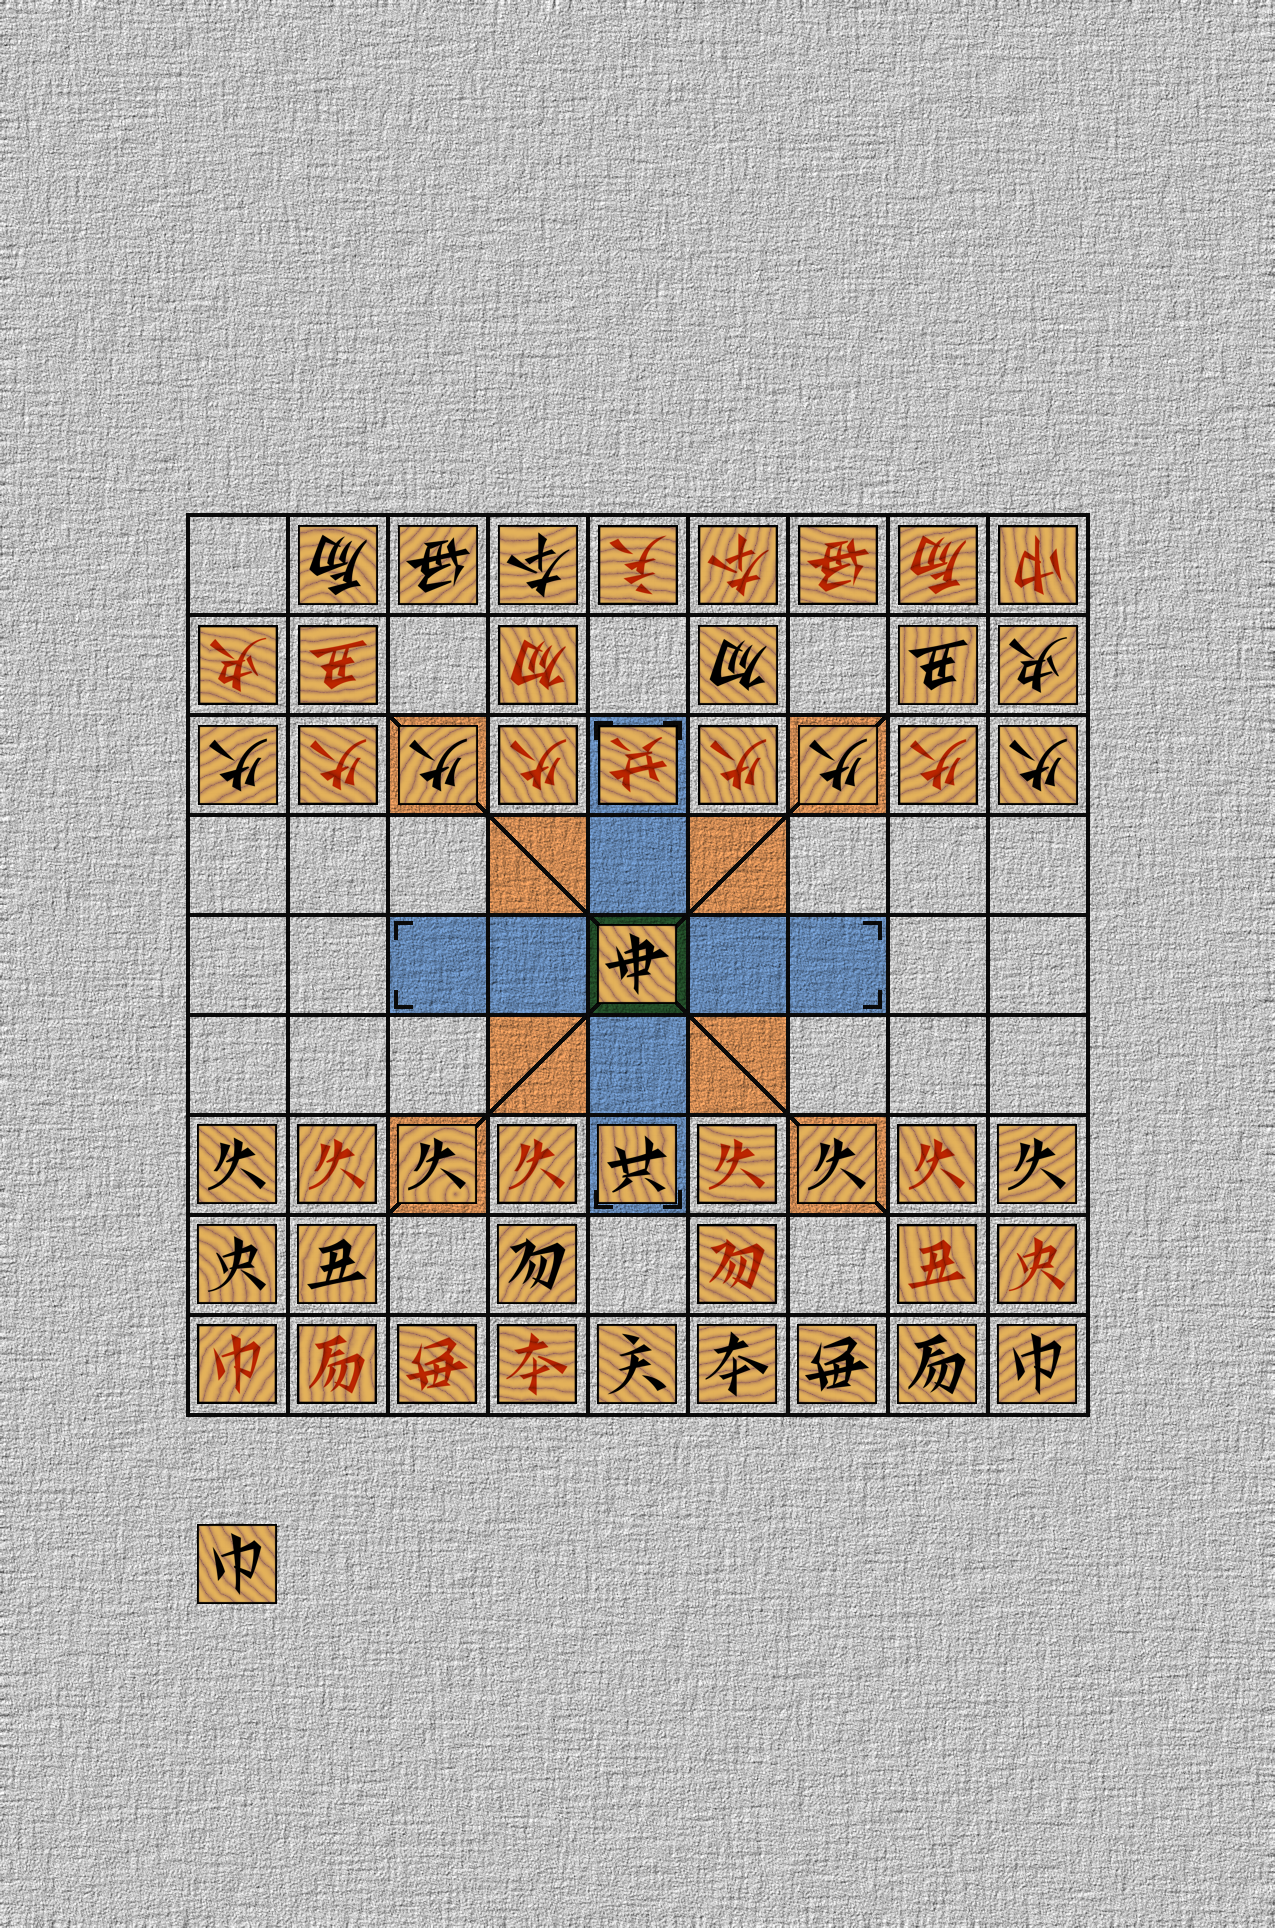
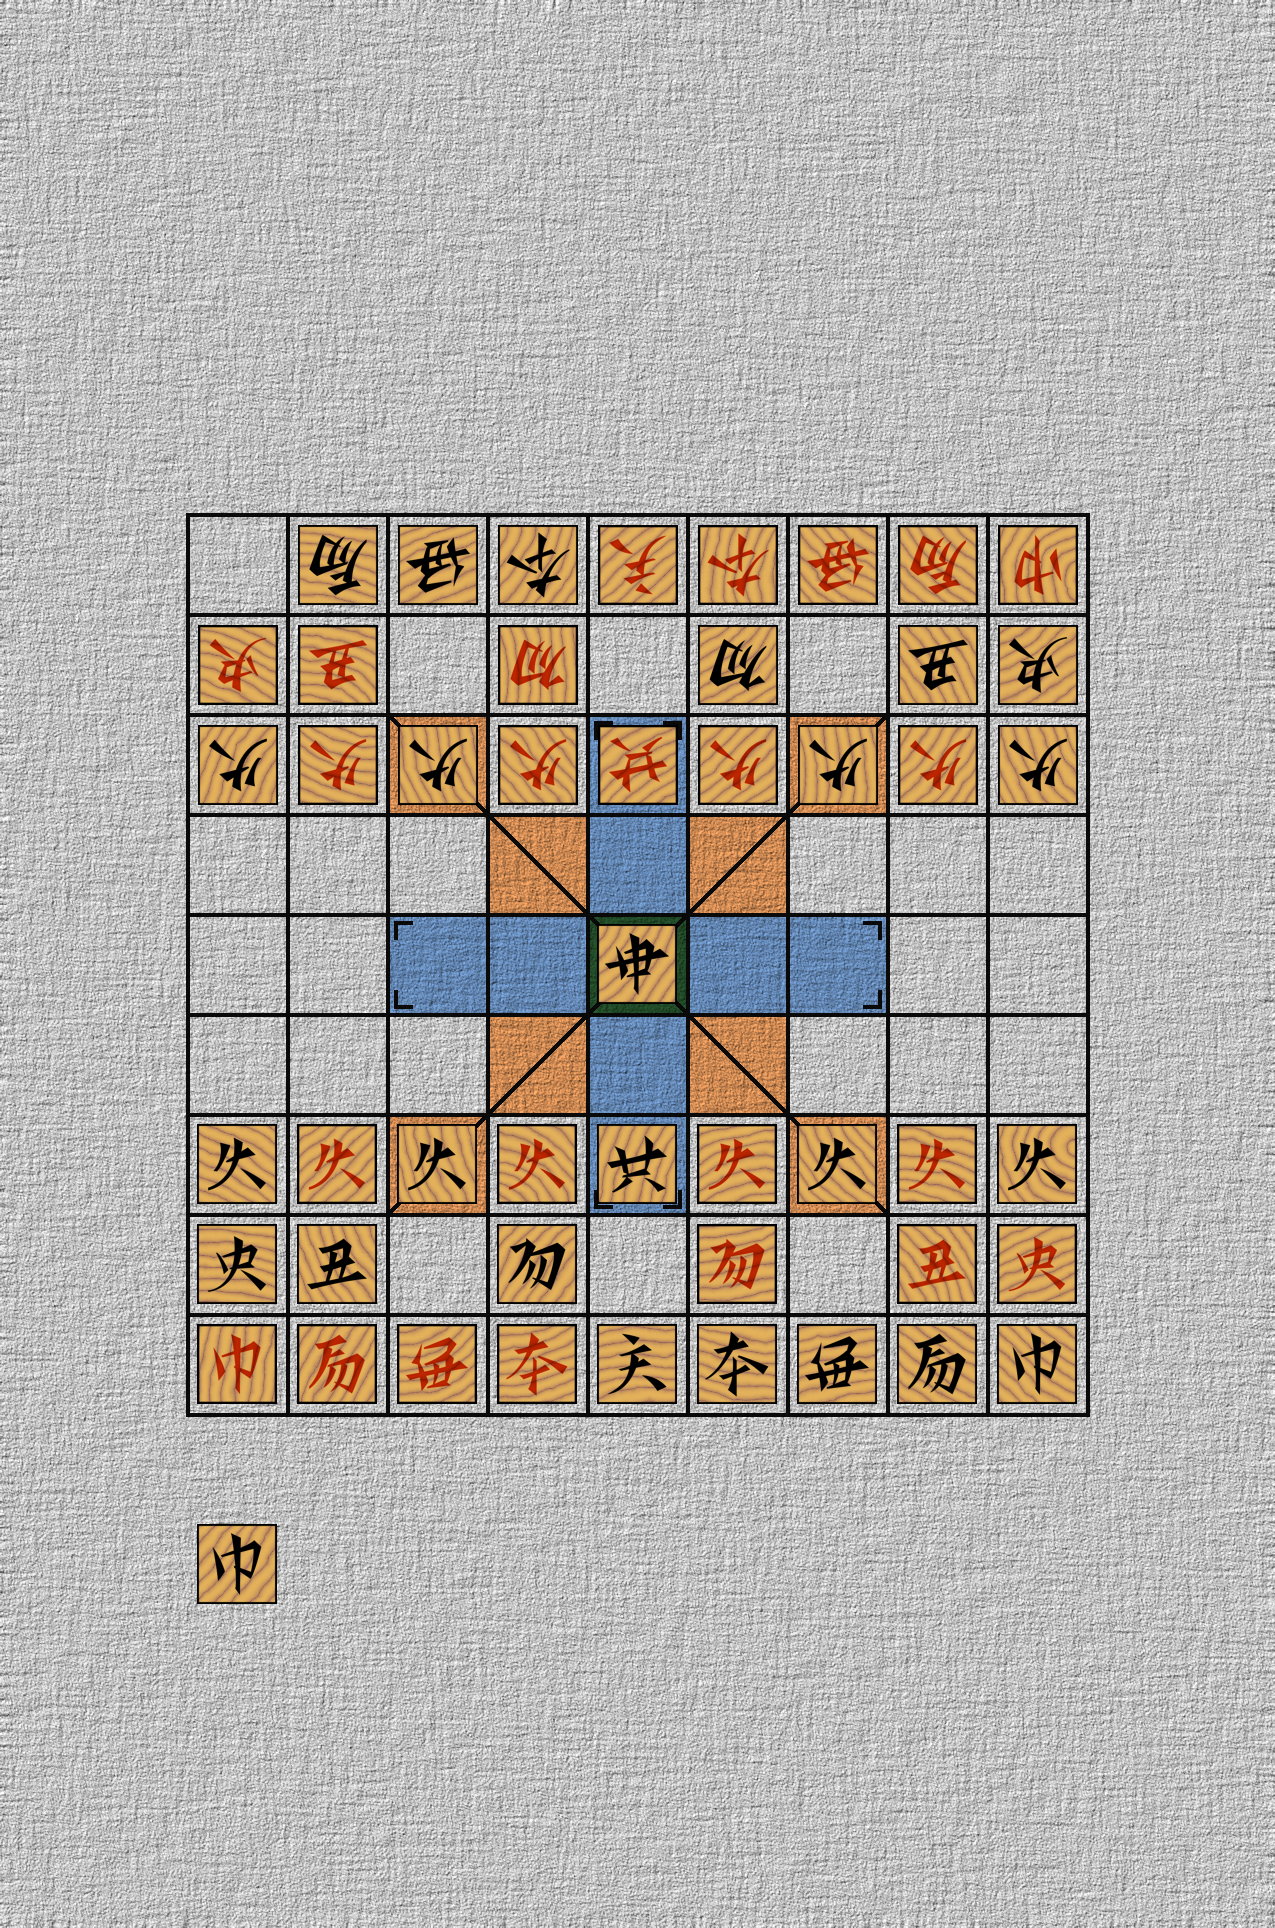
Move to empty square

diff --git a/src/field/mod.rs b/src/field/mod.rs
@@ -173,28 +173,56 @@ fn load_from_80x80(data: &'static [u8], dimension: u32) -> image::RgbImage {
 
 #[derive(Debug)]
 pub enum OperationError {
-    EmptyToHop1Zuo1,
+    MovingFromEmptySquare,
+    MovingToNonEmptySquare,
     Tam2ToHop1Zuo1,
 }
 
 impl Field {
+    fn debug_assert_49_piece(&self) {
+        debug_assert_eq!(self.field.len() + self.a_side_hand.len() + self.ia_side_hand.len(), 49);
+    }
+
     pub fn to_opponent_hop1zuo1(&mut self, coord: Coord) -> Result<(), OperationError> {
+        self.debug_assert_49_piece();
+
         if !self.field.contains_key(&coord) {
-            return Err(OperationError::EmptyToHop1Zuo1);
+            return Err(OperationError::MovingFromEmptySquare);
         }
 
         if self.field[&coord].is_tam2() {
             return Err(OperationError::Tam2ToHop1Zuo1);
         }
 
-        let (piece, side) = self.field.remove(&coord).ok_or(OperationError::EmptyToHop1Zuo1)?
+        let (nontam2piece, side) = self.field.remove(&coord).ok_or(OperationError::MovingFromEmptySquare)?
             .into_nontam2piece().ok_or(OperationError::Tam2ToHop1Zuo1)?;
 
         if side == Side::ASide {
-            self.ia_side_hand.push(piece);
+            self.ia_side_hand.push(nontam2piece);
         } else {
-            self.a_side_hand.push(piece);
+            self.a_side_hand.push(nontam2piece);
         }
+
+        self.debug_assert_49_piece();
+        Ok(())
+    }
+
+    pub fn to_empty_square(&mut self, to: Coord, from: Coord) -> Result<(), OperationError> {
+        self.debug_assert_49_piece();
+
+        if !self.field.contains_key(&from) {
+            return Err(OperationError::MovingFromEmptySquare);
+        }
+
+        if self.field.contains_key(&to) {
+            return Err(OperationError::MovingToNonEmptySquare);
+        }
+
+        let piece = self.field.remove(&from).ok_or(OperationError::MovingFromEmptySquare)?;
+
+        self.field.insert(to, piece);
+
+        self.debug_assert_49_piece();
         Ok(())
     }
 

diff --git a/src/main.rs b/src/main.rs
@@ -14,5 +14,10 @@ fn main() -> Result<(), rand_distr::NormalError> {
     field.render(field::Side::IASide).save("a2.png").unwrap();
     field.render(field::Side::ASide).save("b2.png").unwrap();
 
+    field.to_empty_square((Row::A, Column::K), (Row::A, Column::L)).unwrap();
+
+    field.render(field::Side::IASide).save("a3.png").unwrap();
+    field.render(field::Side::ASide).save("b3.png").unwrap();
+
     Ok(())
 }
